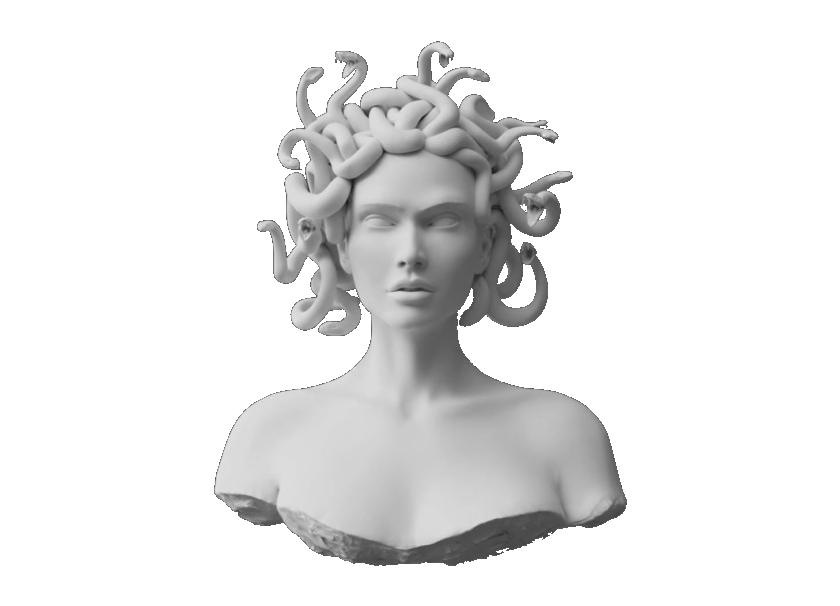
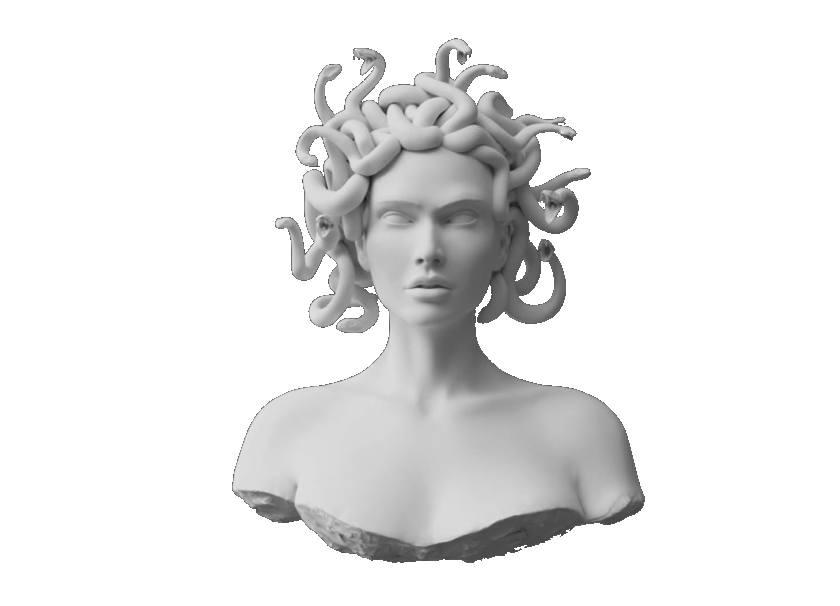
pictures

diff --git a/src/components/Slider/Slider.tsx b/src/components/Slider/Slider.tsx
@@ -1,22 +1,41 @@
-import React from 'react';
-import SVGLetter from '../SVGLetter/SVGLetter';
-import Scene from '../Scene/Scene';
-import SelectSlideMenu from '../SelectSlideMenu/SelectSlideMenu';
-import SocialMediaPanel from '../SocialMediaPanel/SocialMediaPanel';
-import {SelectedSlide} from '../../types/SelectedSlide';
+import React from "react";
+import SVGLetter from "../SVGLetter/SVGLetter";
+import Scene from "../Scene/Scene";
+import SelectSlideMenu from "../SelectSlideMenu/SelectSlideMenu";
+import SocialMediaPanel from "../SocialMediaPanel/SocialMediaPanel";
+import { SelectedSlide } from "../../types/SelectedSlide";
+import medusa from "./slides/medusa";
+import sculpture from "./slides/sculpture";
+import david from "./slides/david";
+import "./Slider.sass";
 
-import './Slider.sass';
-
-
-const Slider = ({chosenSlide, setChosenSlide}: SelectedSlide) => {
-    return ( 
+const Slider = ({ chosenSlide, setChosenSlide }: SelectedSlide) => {
+  let path: string;
+  switch (chosenSlide) {
+    case 1:
+      path = medusa.imgPath;
+      break;
+    case 2:
+      path = sculpture.imgPath;
+      break;
+    case 3:
+      path = david.imgPath;
+      break;
+    default:
+      path = medusa.imgPath;
+      break;
+  }
+  return (
     <div className="slider">
-        <SVGLetter/>
-        <Scene/>
-        <SelectSlideMenu chosenSlide={chosenSlide} setChosenSlide={setChosenSlide}/>
-        <SocialMediaPanel about = {false}/>
+      <SVGLetter />
+      <Scene path = {path}/>
+      <SelectSlideMenu
+        chosenSlide={chosenSlide}
+        setChosenSlide={setChosenSlide}
+      />
+      <SocialMediaPanel about={false} />
     </div>
-     );
-}
- 
+  );
+};
+
 export default Slider;

diff --git a/src/components/Scene/Scene.tsx b/src/components/Scene/Scene.tsx
@@ -1,7 +1,13 @@
 import './Scene.sass';
-import medusaIMG from '../../img/medusa.png';
 
-const Scene = () => {
+
+export interface SceneProps {
+    path: string;
+}
+
+const Scene: React.SFC<SceneProps> = (props) => {
+    const path = props.path;
+    console.log(path);
     return ( 
         <>
         <div className="description">
@@ -19,7 +25,7 @@ const Scene = () => {
             </button>
         </div>
         <div className="scene-img">
-            <img className="medusa-img" src={medusaIMG} alt="medusa"/>
+            <img className="medusa-img" src={path} alt="medusa"/>
         </div>
         </>
      );

diff --git a/src/components/Slider/slides/medusa.ts b/src/components/Slider/slides/medusa.ts
@@ -1,8 +1,9 @@
 import {Slide} from '../../../types/Slide';
 import medusaPNG from '../../../img/medusa.png';
 
-export const medusa: Slide = {
+const medusa: Slide = {
     imgPath: medusaPNG,
-    numberOfSlide: 1,
-    description: "Lorem ipsum dolor sit amet, consectetur adipiscing elit. Quisque condimentum ligula non faucibus tristique. Aliquam volutpat ipsum id nisl facilisis rhoncus."
+    numberOfSlide: 1
 }
+
+export default medusa;

diff --git a/src/components/Slider/slides/sculpture.ts b/src/components/Slider/slides/sculpture.ts
@@ -1,0 +1,9 @@
+import {Slide} from '../../../types/Slide';
+import sculpturePNG from '../../../img/sculpture1.png';
+
+const sculpture: Slide = {
+    imgPath: sculpturePNG,
+    numberOfSlide: 2
+}
+
+export default sculpture;

diff --git a/src/components/Slider/slides/david.ts b/src/components/Slider/slides/david.ts
@@ -1,0 +1,9 @@
+import {Slide} from '../../../types/Slide';
+import davidPNG from '../../../img/vase.png';
+
+const david: Slide = {
+    imgPath: davidPNG,
+    numberOfSlide: 3
+}
+
+export default david;

diff --git a/src/types/Slide.ts b/src/types/Slide.ts
@@ -1,5 +1,4 @@
 export type Slide = {
     imgPath: string,
-    numberOfSlide: number,
-    description: string
+    numberOfSlide: number
 }
